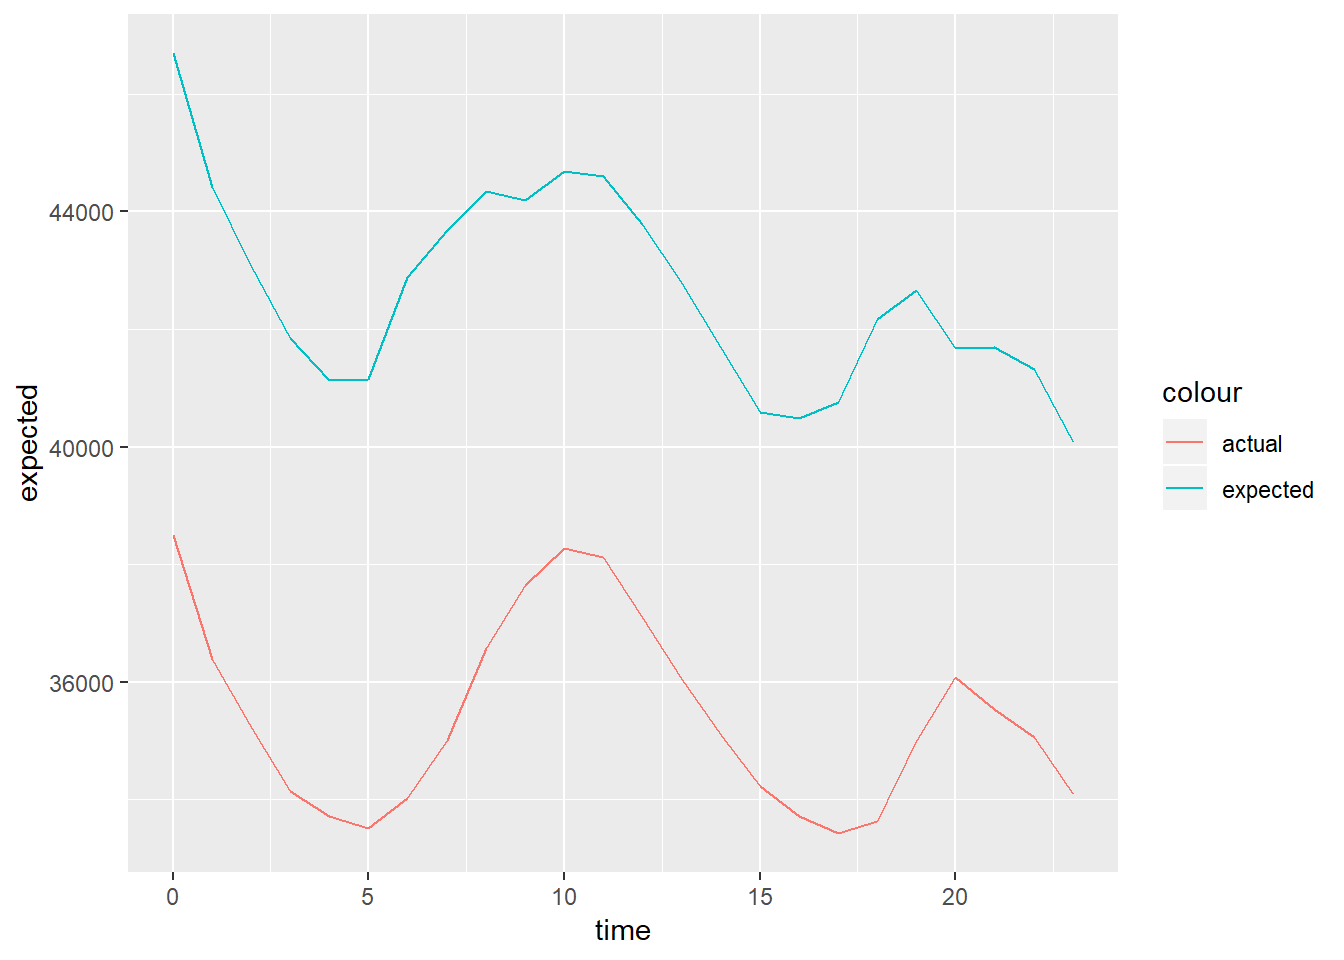
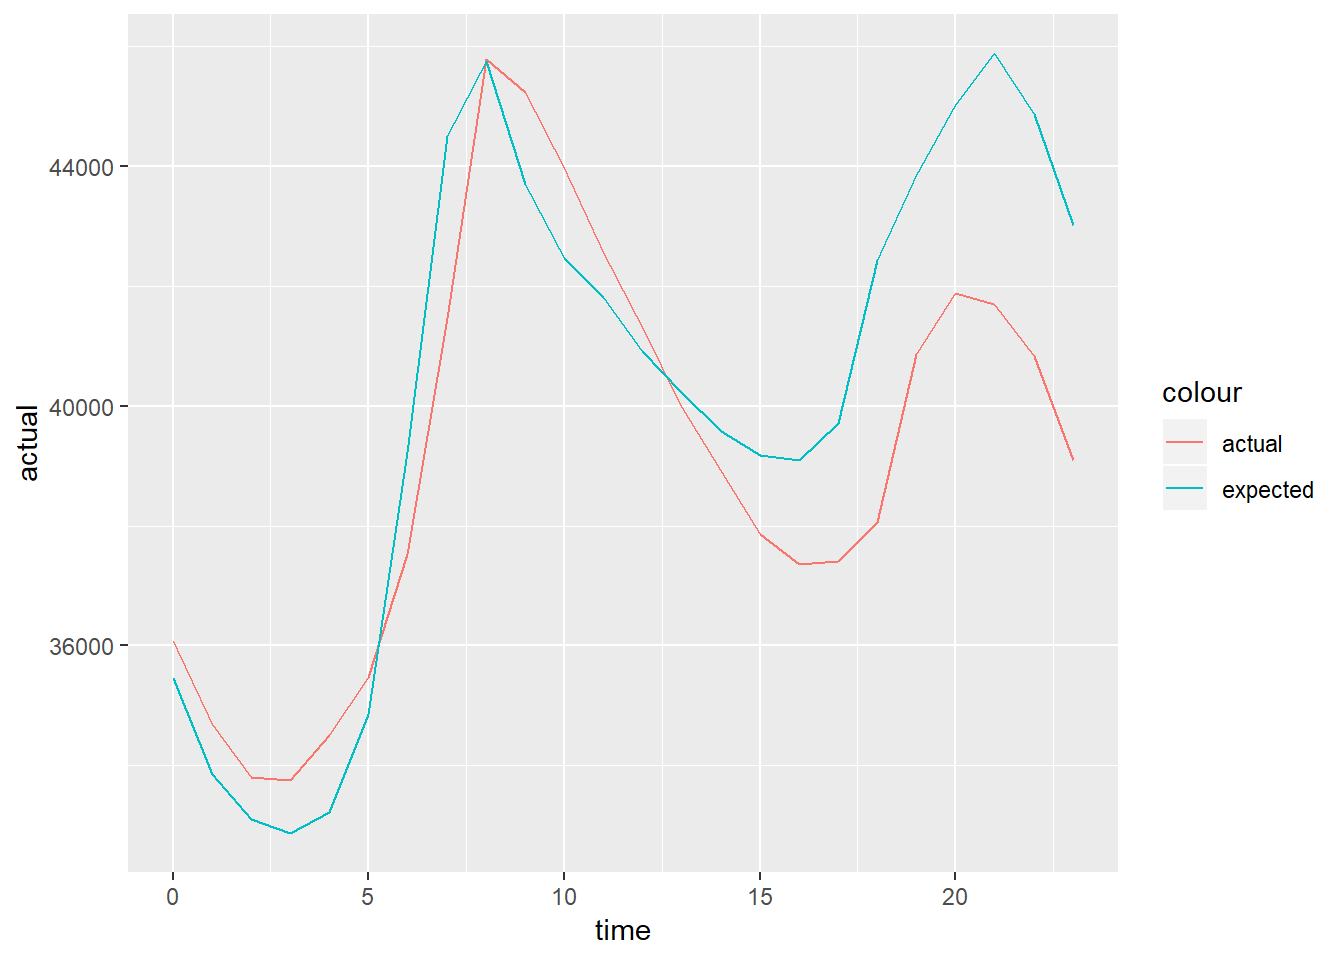
graphs

diff --git a/README.md b/README.md
@@ -247,7 +247,7 @@ newdat23 = data.frame(pday7 = X_test$day7.23, pday2=X_test$day2.23, pday1=X_test
 #use our model to predict the expect load at hour 0
 predict(mod0, newdata = newdat0)[1]
 ##        1 
-## 46688.25
+## 35459.88
 
 # 72 numbers should be returned; 1 for each day
 ```
@@ -259,30 +259,30 @@ for (i in 1:24) {
 }
 temp
 ##                 1
-##  [1,]  0 46688.25
-##  [2,]  1 44403.88
-##  [3,]  2 43068.09
-##  [4,]  3 41837.14
-##  [5,]  4 41123.63
-##  [6,]  5 41154.02
-##  [7,]  6 42874.45
-##  [8,]  7 43687.81
-##  [9,]  8 44351.90
-## [10,]  9 44196.01
-## [11,] 10 44684.25
-## [12,] 11 44597.54
-## [13,] 12 43784.55
-## [14,] 13 42789.37
-## [15,] 14 41666.77
-## [16,] 15 40592.37
-## [17,] 16 40483.01
-## [18,] 17 40754.73
-## [19,] 18 42174.41
-## [20,] 19 42656.35
-## [21,] 20 41668.05
-## [22,] 21 41697.89
-## [23,] 22 41320.59
-## [24,] 23 40070.69
+##  [1,]  0 35459.88
+##  [2,]  1 33859.02
+##  [3,]  2 33102.11
+##  [4,]  3 32863.88
+##  [5,]  4 33221.03
+##  [6,]  5 34848.70
+##  [7,]  6 39226.97
+##  [8,]  7 44494.55
+##  [9,]  8 45744.76
+## [10,]  9 43696.43
+## [11,] 10 42466.51
+## [12,] 11 41809.60
+## [13,] 12 40911.87
+## [14,] 13 40228.47
+## [15,] 14 39578.12
+## [16,] 15 39182.28
+## [17,] 16 39092.03
+## [18,] 17 39708.71
+## [19,] 18 42433.69
+## [20,] 19 43856.08
+## [21,] 20 45010.74
+## [22,] 21 45884.33
+## [23,] 22 44875.01
+## [24,] 23 43015.36
 ```
 
 ``` r
@@ -313,7 +313,9 @@ data <- list(dat0 = list(model = mod0, test = newdat0),
 
 resultday1 = sapply(data, function(dat) predict(dat$model, newdata = dat$test)[1])
 res1 = data.frame(time = 0:23, expected = resultday1, actual = as.numeric(as.vector(Y_test[1,])))
-ggplot(res1, aes(time)) + geom_line(aes(y = expected, colour = "expected")) + geom_line(aes(y = actual, colour = "actual"))
+ggplot(res1, aes(time)) + 
+  geom_line(aes(y = actual, color = "actual"))+ 
+  geom_line(aes(y = expected, color = "expected"))
 ```
 
 <img src="README_figs/README-unnamed-chunk-6-1.png" width="672" />
